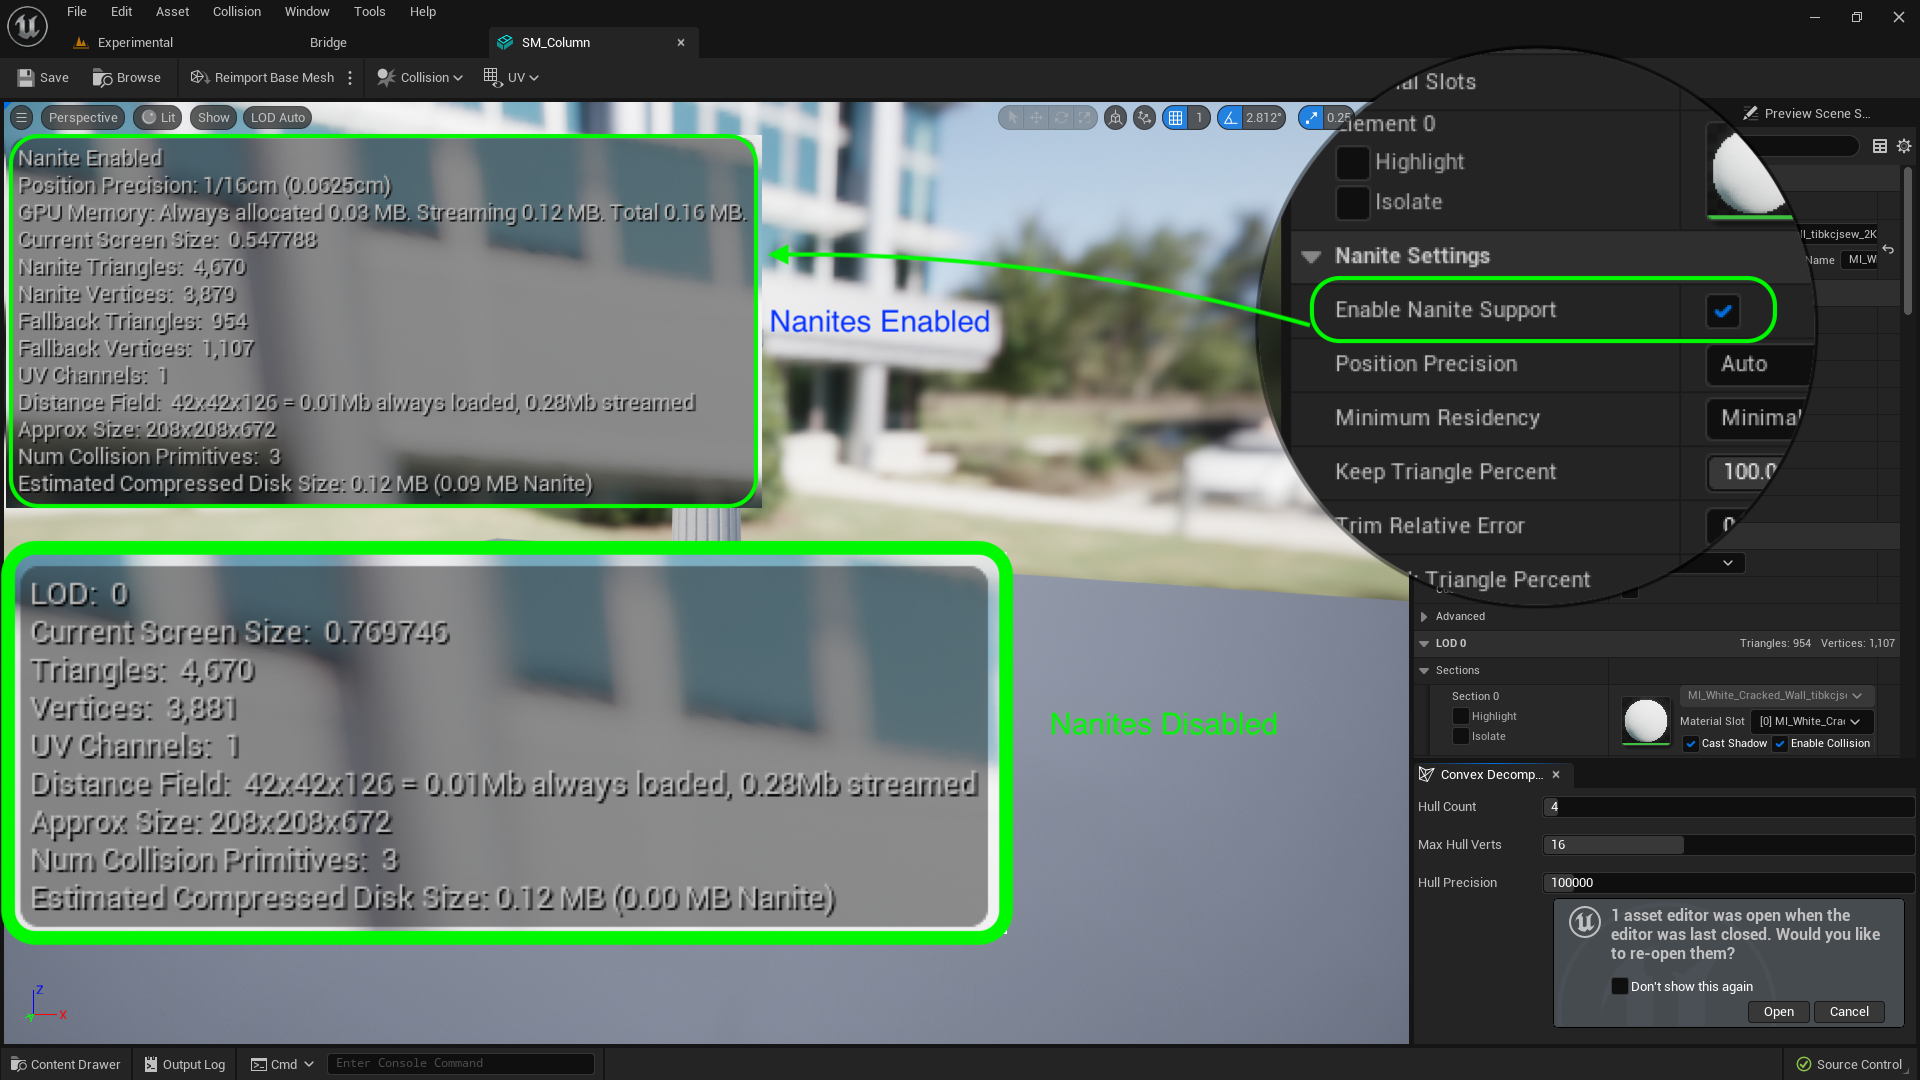
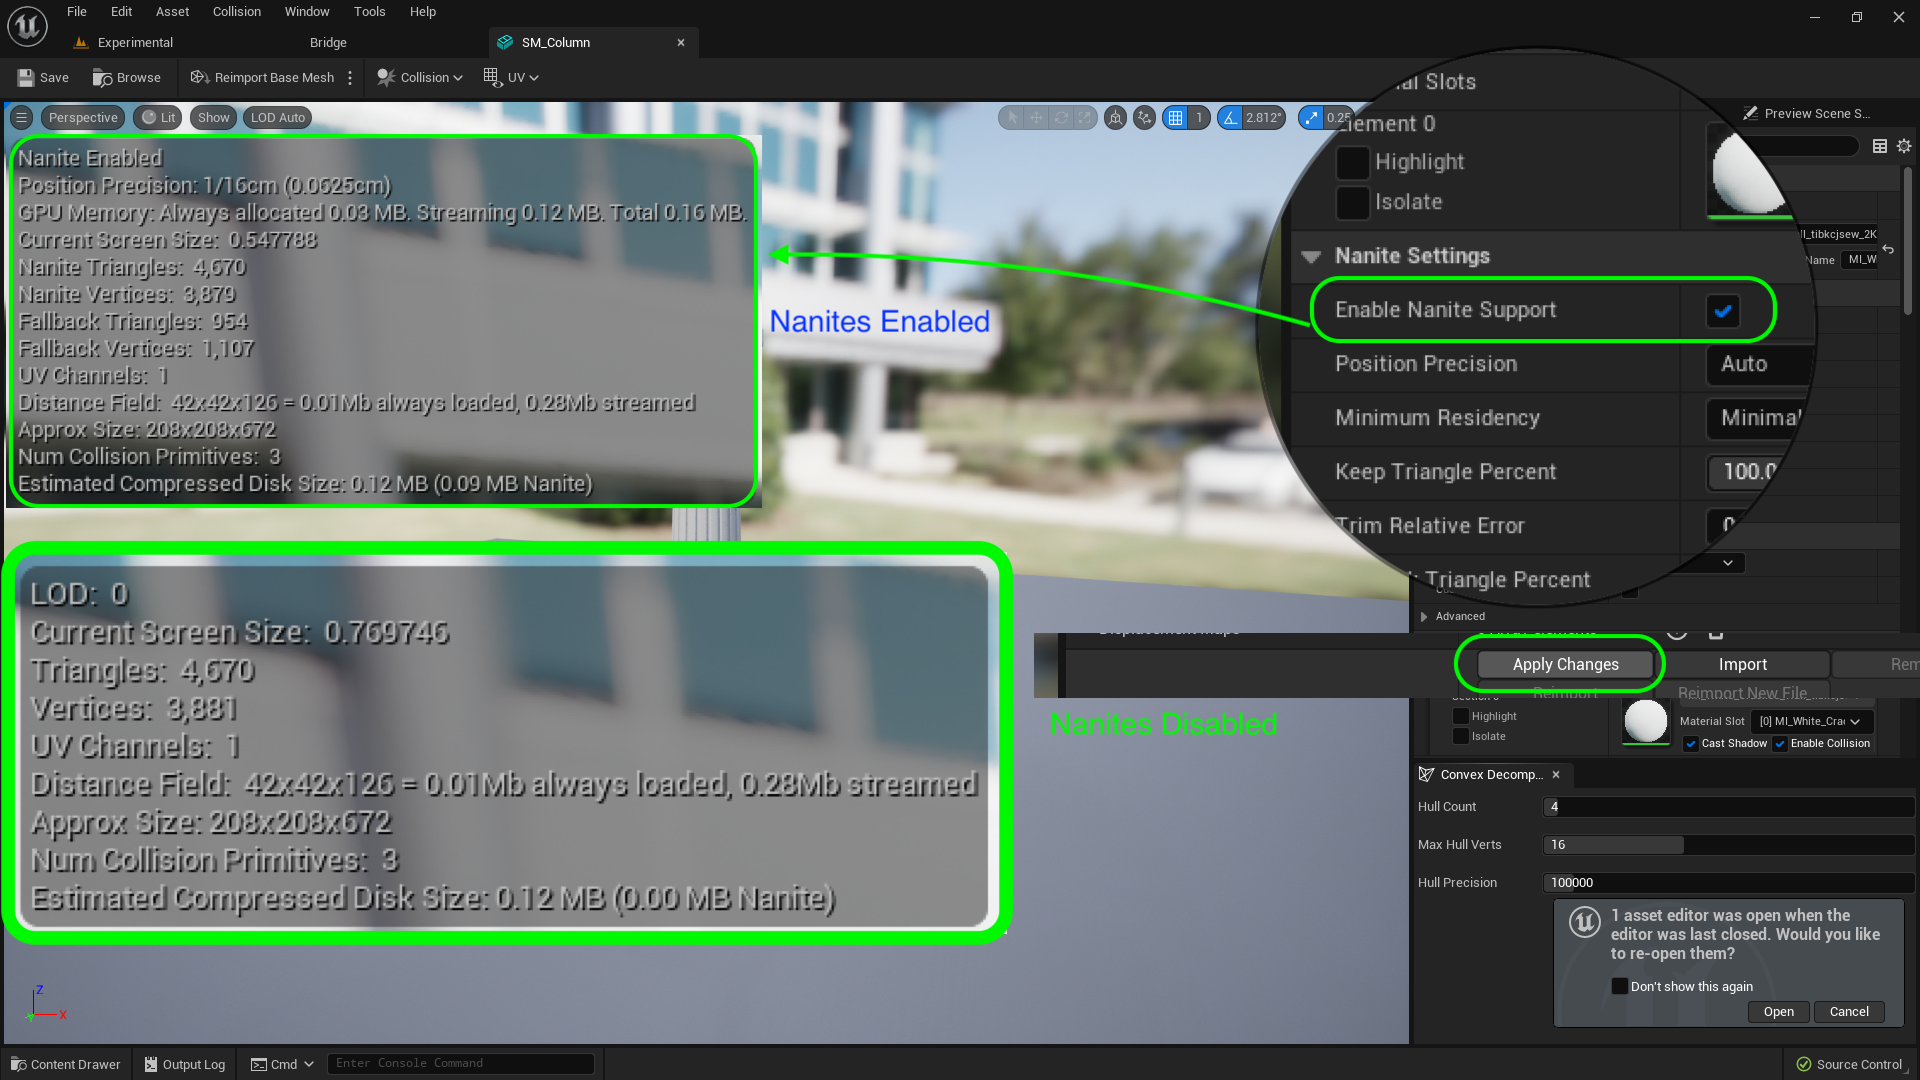
Update to Unreal 5.2

Changed region(s): [[0.5312, 0.5806, 1.0, 0.6722]]

diff --git a/nanites/README.md b/nanites/README.md
@@ -16,7 +16,7 @@
 
 ##### `Step 1.`\|`ITSM`|:small_blue_diamond:
 
-There are two ways of turning on Nanites.  You can double click on the **SM_Column** static mesh and turn them on the viewer.  Or you can right click on the mesh and **Enable Nanite**.  If you do it in the viewer you will see the stats change.  Play attention to **LOD** (Level of Detail) changing to **Nanite Enabled**.
+There are two ways of turning on Nanites.  You can double click on the **SM_Column** static mesh and turn them on the viewer. Then you press **Apply Changes** so that it converts the static mesh to Nanites. For it to actually switch you need to press the <kbd>Apply Changes</kbd> button. Alternatively you can right click on the mesh and **Enable Nanite**.  If you do it in the viewer you will see the stats change.  Play attention to **LOD** (Level of Detail) changing to **Nanite Enabled**.
 
 ![enable nanites on SM_Column](images/nanitesEnabled.png)
 
